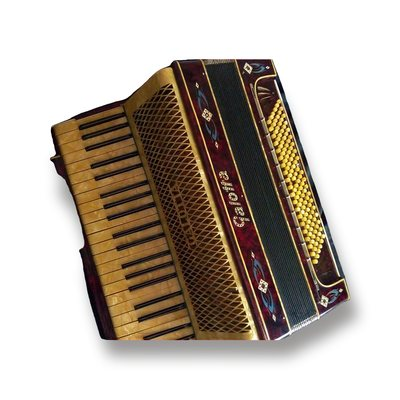
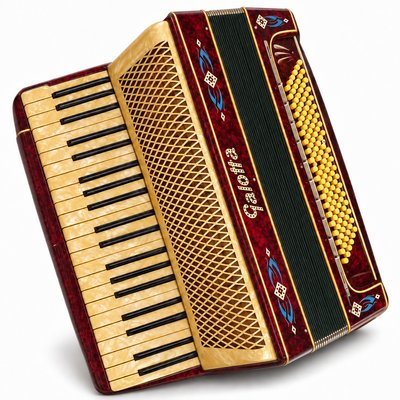
Update site

diff --git a/data/gpt_photos.js b/data/gpt_photos.js
@@ -1,2 +1,2 @@
 // Згенеровано tools/export_gpt.py: товари з новим чистим фото з ChatGPT у photos/web5 (головне), оригінал з підписами другим (<id>-o.jpg).
-window.GPT_PHOTOS = [1, 2, 3, 4, 5, 6, 7, 8, 9, 10, 11, 13, 15, 16, 17, 18, 19, 20, 21, 22, 26, 30, 31, 32, 33, 34, 35, 38, 39, 41, 42, 43, 44, 45, 46, 51, 52, 53, 54, 55, 56, 57, 58, 59, 60, 61, 62, 63, 64, 66, 67, 71, 72, 74, 75, 76, 77, 78, 79, 81, 82, 83, 84, 85, 86, 90, 91, 92, 93, 94, 95, 96, 97, 98, 99, 100, 101, 102, 103, 105, 106, 107, 108, 109, 110, 111, 112, 113, 114, 115, 116, 117, 118, 119, 120, 121, 122, 123, 124, 125, 127, 130, 139, 140, 141, 142, 143, 144, 145, 146, 147, 148, 149, 150, 152, 158, 159, 161, 163, 168, 169, 178, 179, 180, 182, 183, 186, 187, 188, 189, 190, 191, 192, 193, 195, 196, 197, 198, 199, 200, 201, 202, 203, 204, 205, 206, 207, 208, 209, 210, 211, 212, 213, 214, 215, 216, 217, 218, 219, 220, 221, 222, 223, 224, 225, 226, 227, 228, 229, 230, 231, 232, 233, 235, 238, 239, 240, 241, 242, 243, 244, 245, 246, 247, 248, 249, 251, 252, 253, 254, 255, 259, 261, 262, 263, 264, 265, 266, 268, 269, 278, 279, 280, 281, 282, 289, 291, 294, 297, 301, 309, 310, 311, 312, 313, 314, 315, 318, 324, 325, 326, 327, 331, 340, 341, 342, 343, 344, 345, 346, 351, 358, 364, 365, 368, 375, 376, 378, 380, 381, 384, 385, 387, 388, 389, 390, 391, 392, 393, 394, 395, 396, 397, 398, 399, 400, 401, 402, 404, 405, 406, 407, 408, 409, 410, 411, 412, 413, 414, 415, 416, 417, 418, 419, 420, 421, 422, 423, 424, 429, 430, 431, 432, 433, 434, 436, 438, 439, 440, 442, 446, 447, 450, 451, 452, 453, 459, 461, 464, 465, 466, 467, 468, 469, 470, 476, 477, 478, 479, 480, 481, 482, 485, 490, 491, 493, 494, 497, 498, 503, 504, 506, 507, 518, 519, 520, 521, 524, 526, 528, 529, 530, 535, 536, 542, 543, 546, 547, 548, 549, 550, 551, 552, 553, 554, 560, 561, 562, 569, 570, 571, 572, 573];
+window.GPT_PHOTOS = [1, 2, 3, 4, 5, 6, 7, 8, 9, 10, 11, 13, 15, 16, 17, 18, 19, 20, 21, 22, 26, 30, 31, 32, 33, 34, 35, 38, 39, 41, 42, 43, 44, 45, 46, 51, 52, 53, 54, 55, 56, 57, 58, 59, 60, 61, 62, 63, 64, 66, 67, 71, 72, 74, 75, 76, 77, 78, 79, 81, 82, 83, 84, 85, 86, 90, 91, 92, 93, 94, 95, 96, 97, 98, 99, 100, 101, 102, 103, 105, 106, 107, 108, 109, 110, 111, 112, 113, 114, 115, 116, 117, 118, 119, 120, 121, 122, 123, 124, 125, 127, 130, 139, 140, 141, 142, 143, 144, 145, 146, 147, 148, 149, 150, 152, 158, 159, 161, 163, 168, 169, 178, 179, 180, 182, 183, 186, 187, 188, 189, 190, 191, 192, 193, 195, 196, 197, 198, 199, 200, 201, 202, 203, 204, 205, 206, 207, 208, 209, 210, 211, 212, 213, 214, 215, 216, 217, 218, 219, 220, 221, 222, 223, 224, 225, 226, 227, 228, 229, 230, 231, 232, 233, 235, 238, 239, 240, 241, 242, 243, 244, 245, 246, 247, 248, 249, 251, 252, 253, 254, 255, 259, 261, 262, 263, 264, 265, 266, 268, 269, 277, 278, 279, 280, 281, 282, 289, 291, 294, 297, 301, 309, 310, 311, 312, 313, 314, 315, 318, 324, 325, 326, 327, 331, 340, 341, 342, 343, 344, 345, 346, 351, 358, 364, 365, 368, 375, 376, 378, 380, 381, 384, 385, 387, 388, 389, 390, 391, 392, 393, 394, 395, 396, 397, 398, 399, 400, 401, 402, 404, 405, 406, 407, 408, 409, 410, 411, 412, 413, 414, 415, 416, 417, 418, 419, 420, 421, 422, 423, 424, 429, 430, 431, 432, 433, 434, 436, 438, 439, 440, 442, 446, 447, 450, 451, 452, 453, 459, 461, 464, 465, 466, 467, 468, 469, 470, 476, 477, 478, 479, 480, 481, 482, 485, 490, 491, 493, 494, 497, 498, 503, 504, 506, 507, 518, 519, 520, 521, 524, 526, 528, 529, 530, 535, 536, 542, 543, 546, 547, 548, 549, 550, 551, 552, 553, 554, 560, 561, 562, 569, 570, 571, 572, 573];

diff --git a/index.html b/index.html
@@ -85,7 +85,7 @@
 <script src="data/catalog.js"></script>
 <script src="data/catalog-i18n.js?v=4"></script>
 <script src="data/photos.js"></script>
-<script src="data/gpt_photos.js?v=10"></script>
+<script src="data/gpt_photos.js?v=11"></script>
 <script src="data/cat_intro.js?v=1"></script>
 <script src="data/api.js?v=1"></script>
 <script src="chat.js?v=2"></script>
